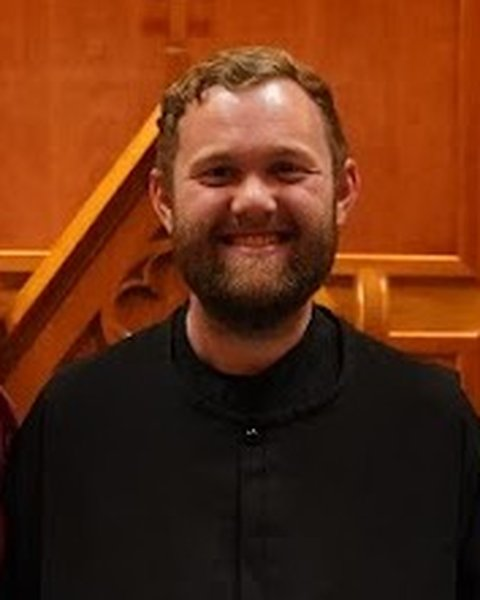
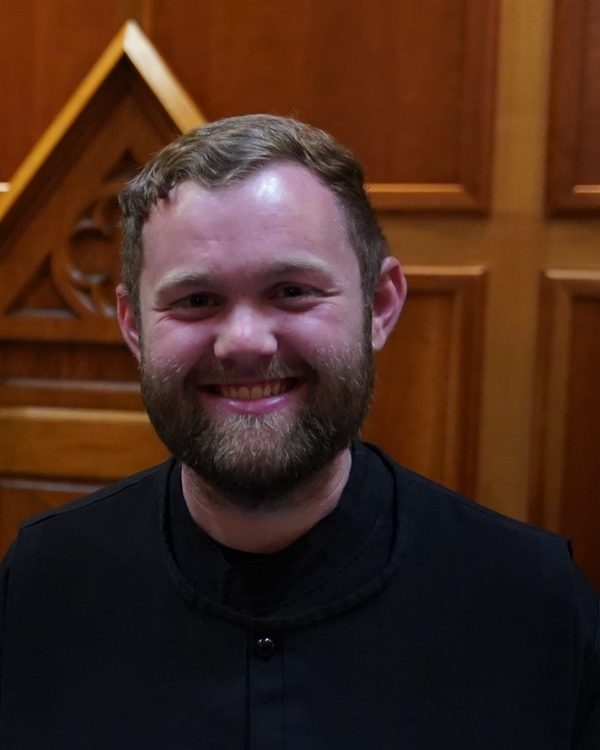
New choir photos; vocations with a picture for each stage of the habit
Anne Stephens's March 2026 photos (from Br. Augustine): the choir on the
home and Pray pages, and the Vocations section rebuilt around the stages:
postulancy, novitiate (scapular, new name, tonsure), simple vows (capuche),
solemn vows (cuculla, photo to come). Br. Gabriel is cropped out of the
novices' photo; Br. Nicholas's portrait now from the sharper original.

Claude-Session: https://claude.ai/code/session_01AN8v5ZvWDqQRGMRQkWmcAx

diff --git a/monastery/index.html b/monastery/index.html
@@ -14,7 +14,7 @@
 <link rel="preconnect" href="https://fonts.googleapis.com">
 <link rel="preconnect" href="https://fonts.gstatic.com" crossorigin>
 <link rel="stylesheet" href="https://fonts.googleapis.com/css2?family=Cormorant+Garamond:ital,wght@0,300;0,400;0,500;1,300;1,400&family=Source+Sans+3:wght@400;600&display=swap">
-<link rel="stylesheet" href="../assets/site.css?v=3">
+<link rel="stylesheet" href="../assets/site.css?v=4">
 <style>
 /* monastery: get to know the monks (job 5b) */
 .narrow-left { max-width: 46rem; }
@@ -296,7 +296,7 @@
     <p class="small monk-group-note">A year of prayer, work and study in the habit before first vows.</p>
     <ul class="monks" role="list">
       <li class="monk">
-        <figure><img src="../assets/img/monks/nicholas.jpg" alt="Br. Nicholas Smith" width="600" height="750" loading="lazy"><figcaption class="credit">Photo: St. Bernard Abbey</figcaption></figure>
+        <figure><img src="../assets/img/monks/nicholas.jpg" alt="Br. Nicholas Smith" width="600" height="750" loading="lazy"><figcaption class="credit">Photo: Anne Stephens</figcaption></figure>
         <div class="monk-body">
           <h4>Br. Nicholas Smith</h4>
           <p class="monk-role">Novice · artist</p>
@@ -314,7 +314,7 @@
         </div>
       </li>
     </ul>
-    <p class="credit" style="margin-top:2.5rem">Portraits: Anne Stephens, except Br. Irenaeus and the novices (St. Bernard Abbey). Words in quotation marks are the monks' own, from the abbey's website and the Cullman papers.</p>
+    <p class="credit" style="margin-top:2.5rem">Portraits: Anne Stephens, except Br. Irenaeus and Br. Boniface (St. Bernard Abbey). Words in quotation marks are the monks' own, from the abbey's website and the Cullman papers.</p>
   </div>
 </section>
 <section class="sec on-stone" id="day" aria-labelledby="day-h">
@@ -366,17 +366,45 @@
   </div>
 </section>
 <section class="sec on-stone" id="vocations">
-  <div class="narrow prose">
-    <p class="eyebrow">Vocations</p>
-    <h2 class="h-md">Is God calling you?</h2>
-    <p style="margin-top:1rem">Over the last decade St. Bernard has seen a growth in vocations that is rare among American Benedictine monasteries. A man who thinks God may be calling him here begins by writing to the vocation director, then visits, and in time may ask to enter.</p>
-    <p>One does not become a monk overnight. The way takes several years, and at each step both the man and the community ask whether God is calling him here.</p>
-    <ol class="chron" role="list">
-      <li><b>Postulancy</b>About six months living inside the monastery, in the tunic, the first part of the habit. Classes in monastic life; free to leave at any time.</li>
-      <li><b>Novitiate</b>A year of prayer, work and study. The novice receives the scapular and, usually, a new name for his new life.</li>
-      <li><b>Simple vows</b>Stability, obedience and conversion of life, promised for three years. The junior monk receives the hood (capuche) and his first job in the community.</li>
-      <li><b>Solemn vows</b>The same vows, for life. He receives the cuculla, the great pleated cowl worn on feasts.</li>
+  <div class="wrap">
+    <div class="prose" style="max-width:46rem">
+      <p class="eyebrow">Vocations</p>
+      <h2 class="h-md">Is God calling you?</h2>
+      <p style="margin-top:1rem">Over the last decade St. Bernard has seen a growth in vocations that is rare among American Benedictine monasteries. A man who thinks God may be calling him here begins by writing to the vocation director, then visits, and in time may ask to enter.</p>
+      <p>One does not become a monk overnight. The way takes several years, and at each step both the man and the community ask whether God is calling him here. The habit is given a piece at a time, so that a monk's clothes show how far along the way he has come.</p>
+    </div>
+    <ol class="stages" role="list">
+      <li>
+        <figure><img src="../assets/img/formation-belts.jpg" alt="Belts and folded habits waiting on a table in the church during the clothing of the novices" loading="lazy" width="1400" height="933"></figure>
+        <b>Postulancy</b>
+        <p>About six months living inside the monastery, in the tunic and belt, the first part of the habit. Classes in monastic life; he is free to leave at any time.</p>
+      </li>
+      <li>
+        <figure><img src="../assets/img/formation-tonsure.jpg" alt="The superior clipping a lock of hair from a kneeling novice's head" loading="lazy" width="900" height="1350"></figure>
+        <b>Novitiate</b>
+        <p>A year of prayer, work and study. The novice receives the scapular, a new name for his new life, and the tonsure: today only a small clip of hair, to keep the old custom.</p>
+      </li>
+      <li>
+        <figure><img src="../assets/img/formation-capuche.jpg" alt="A monk kneeling at the altar step as the hood is placed on his head at his first vows" loading="lazy" width="900" height="1350"></figure>
+        <b>Simple vows</b>
+        <p>Stability, obedience and conversion of life, promised for three years. The junior monk receives the hood, the capuche, and his first work in the community.</p>
+      </li>
+      <li>
+        <figure class="stage-nophoto"><img src="../assets/img/crest.png" alt="" width="391" height="718"><figcaption>Photo to come</figcaption></figure>
+        <b>Solemn vows</b>
+        <p>The same vows, for life. He receives the cuculla, the great pleated cowl worn in choir on feasts.</p>
+      </li>
     </ol>
+    <div class="split" style="margin-top:3rem">
+      <figure>
+        <img src="../assets/img/formation-scapular.jpg" alt="A folded habit and scapular laid out on a table, labelled for Postulant Timothy" loading="lazy" width="900" height="1350" style="aspect-ratio:9/8">
+        <figcaption>Laid out for the clothing, 21 March 2026: the habit for Postulant Timothy, who that day became Br. Boniface. Photo: Anne Stephens.</figcaption>
+      </figure>
+      <figure>
+        <img src="../assets/img/novices-2026.jpg" alt="Two smiling novices in their new habits" loading="lazy" width="1400" height="1241" style="aspect-ratio:9/8">
+        <figcaption>Br. Boniface and Br. Nicholas, newly clothed as novices. Photos on this page: Anne Stephens.</figcaption>
+      </figure>
+    </div>
     <div class="btn-row"><a class="btn btn-ink" href="https://www.stbernardabbey.com/vocation-inquiry">Write to the vocation director</a></div>
   </div>
 </section>

diff --git a/pray/index.html b/pray/index.html
@@ -14,7 +14,7 @@
 <link rel="preconnect" href="https://fonts.googleapis.com">
 <link rel="preconnect" href="https://fonts.gstatic.com" crossorigin>
 <link rel="stylesheet" href="https://fonts.googleapis.com/css2?family=Cormorant+Garamond:ital,wght@0,300;0,400;0,500;1,300;1,400&family=Source+Sans+3:wght@400;600&display=swap">
-<link rel="stylesheet" href="../assets/site.css?v=3">
+<link rel="stylesheet" href="../assets/site.css?v=4">
 </head>
 <body>
 <a class="skip" href="#main">Skip to content</a>
@@ -54,7 +54,7 @@
 
 <main id="main">
 <section class="page-hero">
-  <img src="../assets/img/choir.jpg" alt="" width="1600" height="1024">
+  <img src="../assets/img/choir.jpg" alt="" width="1600" height="1067">
   <div class="wrap">
     <p class="eyebrow">Pray with Us</p>
     <h1 class="h-xl">The church is open. <br>Come and pray.</h1>
@@ -121,8 +121,8 @@
       </div>
     </div>
     <figure>
-      <img src="../assets/img/choir-nave.jpg" alt="The monks' choir stalls and the long nave of the Abbey Church under its arches" loading="lazy" width="1600" height="1066">
-      <figcaption>The choir and nave of the Abbey Church. Photo: Anne Stephens.</figcaption>
+      <img src="../assets/img/choir-reading.jpg" alt="Monks seated in their choir stalls, reading the Office from red choir books" loading="lazy" width="1400" height="934">
+      <figcaption>Between the psalms, in the choir stalls. Photo: Anne Stephens.</figcaption>
     </figure>
   </div>
 </section>

diff --git a/assets/site.css b/assets/site.css
@@ -302,3 +302,13 @@ button { font: inherit; color: inherit; background: none; border: 0; padding: 0;
 .prose a.btn-ink { color: var(--paper); }
 .prose a.btn-gold { color: var(--night); }
 .prose a.btn-line { color: inherit; }
+/* ---- Monastery: the stages of formation ---- */
+.stages { list-style: none; padding: 0; margin: 2.5rem 0 0; display: grid; grid-template-columns: repeat(4, 1fr); gap: clamp(1rem, 2.5vw, 2rem); }
+.stages figure img { width: 100%; aspect-ratio: 4 / 5; object-fit: cover; border-radius: 4px; }
+.stages b { display: block; font: 500 1.45rem/1.2 var(--serif); margin-top: .9rem; color: var(--gold-ink); }
+.stages p { font-size: 1rem; line-height: 1.6; color: var(--ink-soft); margin-top: .4rem; }
+.stage-nophoto { aspect-ratio: 4 / 5; display: grid; place-items: center; align-content: center; gap: .9rem; background: var(--paper); border: 1px dashed var(--line); border-radius: 4px; }
+.stage-nophoto img { width: 3.2rem !important; aspect-ratio: auto !important; opacity: .45; }
+.stage-nophoto figcaption { font: 600 .72rem/1 var(--sans); letter-spacing: .14em; text-transform: uppercase; color: var(--muted); }
+.split figcaption { font-size: .8rem; color: var(--muted); margin-top: .6rem; }
+@media (max-width: 64em) { .stages { grid-template-columns: 1fr 1fr; } }

diff --git a/index.html b/index.html
@@ -14,7 +14,7 @@
 <link rel="preconnect" href="https://fonts.googleapis.com">
 <link rel="preconnect" href="https://fonts.gstatic.com" crossorigin>
 <link rel="stylesheet" href="https://fonts.googleapis.com/css2?family=Cormorant+Garamond:ital,wght@0,300;0,400;0,500;1,300;1,400&family=Source+Sans+3:wght@400;600&display=swap">
-<link rel="stylesheet" href="assets/site.css?v=3">
+<link rel="stylesheet" href="assets/site.css?v=4">
 </head>
 <body>
 <a class="skip" href="#main">Skip to content</a>
@@ -166,8 +166,8 @@
         <a class="more" href="pray/" style="margin-top:2rem">The full schedule <svg class="ic"><use href="#i-arrow"/></svg></a>
       </div>
       <figure class="rise">
-        <img src="assets/img/choir.jpg" alt="Monks singing the Office in their choir stalls" loading="lazy" width="1600" height="1024">
-        <figcaption class="credit">Palm Sunday in the choir. Photo: Anne Stephens.</figcaption>
+        <img src="assets/img/choir.jpg" alt="Monks standing in their choir stalls for the Office" loading="lazy" width="1600" height="1067">
+        <figcaption class="credit">In the choir. Photo: Anne Stephens.</figcaption>
       </figure>
     </div>
   </div>

diff --git a/give/index.html b/give/index.html
@@ -14,7 +14,7 @@
 <link rel="preconnect" href="https://fonts.googleapis.com">
 <link rel="preconnect" href="https://fonts.gstatic.com" crossorigin>
 <link rel="stylesheet" href="https://fonts.googleapis.com/css2?family=Cormorant+Garamond:ital,wght@0,300;0,400;0,500;1,300;1,400&family=Source+Sans+3:wght@400;600&display=swap">
-<link rel="stylesheet" href="../assets/site.css?v=3">
+<link rel="stylesheet" href="../assets/site.css?v=4">
 </head>
 <body>
 <a class="skip" href="#main">Skip to content</a>

diff --git a/grotto/index.html b/grotto/index.html
@@ -14,7 +14,7 @@
 <link rel="preconnect" href="https://fonts.googleapis.com">
 <link rel="preconnect" href="https://fonts.gstatic.com" crossorigin>
 <link rel="stylesheet" href="https://fonts.googleapis.com/css2?family=Cormorant+Garamond:ital,wght@0,300;0,400;0,500;1,300;1,400&family=Source+Sans+3:wght@400;600&display=swap">
-<link rel="stylesheet" href="../assets/site.css?v=3">
+<link rel="stylesheet" href="../assets/site.css?v=4">
 </head>
 <body>
 <a class="skip" href="#main">Skip to content</a>

diff --git a/relics/index.html b/relics/index.html
@@ -14,7 +14,7 @@
 <link rel="preconnect" href="https://fonts.googleapis.com">
 <link rel="preconnect" href="https://fonts.gstatic.com" crossorigin>
 <link rel="stylesheet" href="https://fonts.googleapis.com/css2?family=Cormorant+Garamond:ital,wght@0,300;0,400;0,500;1,300;1,400&family=Source+Sans+3:wght@400;600&display=swap">
-<link rel="stylesheet" href="../assets/site.css?v=3">
+<link rel="stylesheet" href="../assets/site.css?v=4">
 </head>
 <body>
 <a class="skip" href="#main">Skip to content</a>

diff --git a/school/index.html b/school/index.html
@@ -14,7 +14,7 @@
 <link rel="preconnect" href="https://fonts.googleapis.com">
 <link rel="preconnect" href="https://fonts.gstatic.com" crossorigin>
 <link rel="stylesheet" href="https://fonts.googleapis.com/css2?family=Cormorant+Garamond:ital,wght@0,300;0,400;0,500;1,300;1,400&family=Source+Sans+3:wght@400;600&display=swap">
-<link rel="stylesheet" href="../assets/site.css?v=3">
+<link rel="stylesheet" href="../assets/site.css?v=4">
 </head>
 <body>
 <a class="skip" href="#main">Skip to content</a>

diff --git a/visit/index.html b/visit/index.html
@@ -14,7 +14,7 @@
 <link rel="preconnect" href="https://fonts.googleapis.com">
 <link rel="preconnect" href="https://fonts.gstatic.com" crossorigin>
 <link rel="stylesheet" href="https://fonts.googleapis.com/css2?family=Cormorant+Garamond:ital,wght@0,300;0,400;0,500;1,300;1,400&family=Source+Sans+3:wght@400;600&display=swap">
-<link rel="stylesheet" href="../assets/site.css?v=3">
+<link rel="stylesheet" href="../assets/site.css?v=4">
 </head>
 <body>
 <a class="skip" href="#main">Skip to content</a>

diff --git a/work/index.html b/work/index.html
@@ -14,7 +14,7 @@
 <link rel="preconnect" href="https://fonts.googleapis.com">
 <link rel="preconnect" href="https://fonts.gstatic.com" crossorigin>
 <link rel="stylesheet" href="https://fonts.googleapis.com/css2?family=Cormorant+Garamond:ital,wght@0,300;0,400;0,500;1,300;1,400&family=Source+Sans+3:wght@400;600&display=swap">
-<link rel="stylesheet" href="../assets/site.css?v=3">
+<link rel="stylesheet" href="../assets/site.css?v=4">
 </head>
 <body>
 <a class="skip" href="#main">Skip to content</a>

diff --git a/PLAN.md b/PLAN.md
@@ -154,3 +154,4 @@ end of it under a comment with your page's name, or in a `<style>` block in your
 - 2 Nov 2026: jobs 2, 5, 6, 7 done: grotto/, pray/, school/, visit/ written; monastery/ gets an overview, a day in the life, history (with the 1891 founding story from Br. Augustine's Facebook export), formation and FAQ; give/ loses its placeholder. Name days added to the monk cards (Br. Augustine: put them in from the names; my choices for ambiguous names: Joel 19 Oct, John the Apostle, Thomas the Apostle, Damien of Molokai, Nicholas of Myra). Br. Nicholas drew the Bloomin' Festival campus map (the original campus map probably by Br. Nicholas Weiss). New photo grade `_notes/tools/grade.py` (warm, softened colour, ink blacks, cream whites, light vignette): the old choir photo is replaced by Anne Stephens's Palm Sunday 2022 choir, and the Br. Joseph statue regraded to match; new graded web copies for pray, school, visit (choir-nave, school-teaching, church-spring, church-night, cemetery). Left out the 2018 and 2024 group photos: Br. Joseph Goode may be in them. Buttons inside `.prose` were unreadable (link colour won): fixed in site.css (v=3). Tested at 1440 and 390: no errors, no sideways scroll, 151 internal links and anchors resolve. Waiting on: Br. Irenaeus's photo as a file (pasted in chat, not received as a file); Br. Christopher and "Benedictine Brew" coffee; photos of the novices. The Facebook export (FB.zip, Drive) covers only the "Bernard Abbey" profile Nov 2025–Nov 2026, five posts; the monks' posts on the abbey Page need an export of the Page itself.
 - 2 Nov 2026: the whole Facebook Page read through the Graph API (1,022 posts, 1,146 photos): notes in `_notes/FACEBOOK.md`, texts in `_notes/facebook/`, tool `_notes/tools/fb_page_export.py` (token in the env var FB_PAGE_TOKEN; photos not in the repo). Monk cards corrected from it: name days as the abbey keeps them (Charles Lwanga, John Bosco, Thomas Aquinas, Joel 13 Jul, Pachomius 15 May, Benedict 21 Mar), Fr. Dominic prior (Aug 2026), Br. Christopher guestmaster, more on Brs. Leo, Michael, Irenaeus and Fr. Bede; Br. Irenaeus's photo; Br. Raphael and Br. Damien now separate cards; Br. Nicholas's 'Austin' was his baptismal name. Visit: Ed Huddleston's star-trail photo of the cemetery cross. Br. Augustine to settle the disagreements listed in FACEBOOK.md (his own birthplace, Fr. Patrick's and Br. Thomas's hometowns).
 - 2 Nov 2026 (Br. Augustine): Fr. Bede is now Prior and Fr. Dominic Subprior (they switched); Br. Augustine was born in Pittsburgh; Fr. Patrick from Sheffield (ordained 2008); Abbot Brendan from Lanesville. Novices identified (Nicholas: auburn hair and beard; Boniface: red hair) and given photos: every monk on the site now has a picture.
+- 2 Nov 2026: Br. Augustine sent Anne Stephens's March 2026 photos: new choir photos (home, pray) and a Vocations section with a picture for each stage (the belts and habits, the tonsure, the capuche at first vows; solemn vows: photo of the cuculla to come from Br. Augustine). Br. Gabriel cropped out of the novices' photo. To check: the number of pleats in the cuculla (Br. Augustine said 72, one per chapter of the Rule; the Rule has 73 chapters), not yet on the page.

diff --git a/assets/img/README.md b/assets/img/README.md
@@ -16,10 +16,12 @@ Carol M. Highsmith, public domain: credit "Photo: Carol M. Highsmith, Library of
 | historic-plough, historic-porch | _work-02, community-02 | work |
 | relics-bernard, relics-royal | relics/originals IMG_4885, IMG_4913 (placeholders) | home, relics |
 | monks/*.jpg (19) | _source/stephens/Monk-Headshots (18 named headshots), 2026-July-29-Abbot-Brendan (brendan), 2026-March-21 first vows DSC09609 (damien-raphael); 600x750, q80. Credit "Photo: Anne Stephens" | monastery (#monks) |
-| choir.jpg (replaced 2 Nov 2026) | Stephens 2022-Palm-Sunday DSC08984, graded with `_notes/tools/grade.py`. Credit "Photo: Anne Stephens" | home, pray |
+| choir.jpg (replaced again 2 Nov 2026) | Anne Stephens, choir March 2026 (sent by Br. Augustine), graded at 0.6. Credit "Photo: Anne Stephens" | home, pray |
 | br-joseph-statue.jpg (regraded) | Highsmith LOC 2010640619, graded | home, grotto |
-| choir-nave, school-teaching, church-spring, church-night | Stephens DSC-0937-Hb9bTcj, April-2024 DSC08124, DSC08208, Church-Exterior DSC5603; all graded. Credit "Photo: Anne Stephens" | pray, school, visit |
+| school-teaching, church-spring, church-night | Stephens April-2024 DSC08124, DSC08208, Church-Exterior DSC5603; all graded. Credit "Photo: Anne Stephens" | pray, school, visit |
 | cemetery-stars.jpg | Facebook, 2025-09-11, Ed Huddleston (credited on the Page). Credit "Photo: Ed Huddleston" | visit |
 | monks/irenaeus.jpg | Facebook, 2025-06-28 name-day post (abbey photo) | monastery |
 | monks/raphael.jpg, monks/damien.jpg | Stephens first-vows DSC09609, split (identified from the abbey's Facebook posts) | monastery |
-| monks/nicholas.jpg, monks/boniface.jpg | Facebook 2026-03-23 clothing-day family photos, cropped to the novice alone (identified by Br. Augustine), 480x600 | monastery |
+| monks/boniface.jpg | Facebook 2026-03-23 clothing-day family photos, cropped to the novice alone (identified by Br. Augustine), 480x600 | monastery |
+| choir-reading, formation-belts, formation-tonsure, formation-capuche, formation-scapular, novices-2026 | Anne Stephens, novitiate and first vows 20–21 March 2026 (sent by Br. Augustine; tonsure = SmugMug DSC08510, capuche = DSC09196), graded at 0.6; novices-2026 cropped to leave out Br. Gabriel | pray, monastery (#vocations) |
+| monks/nicholas.jpg | from novices-2026's source photo (Anne Stephens) | monastery |
